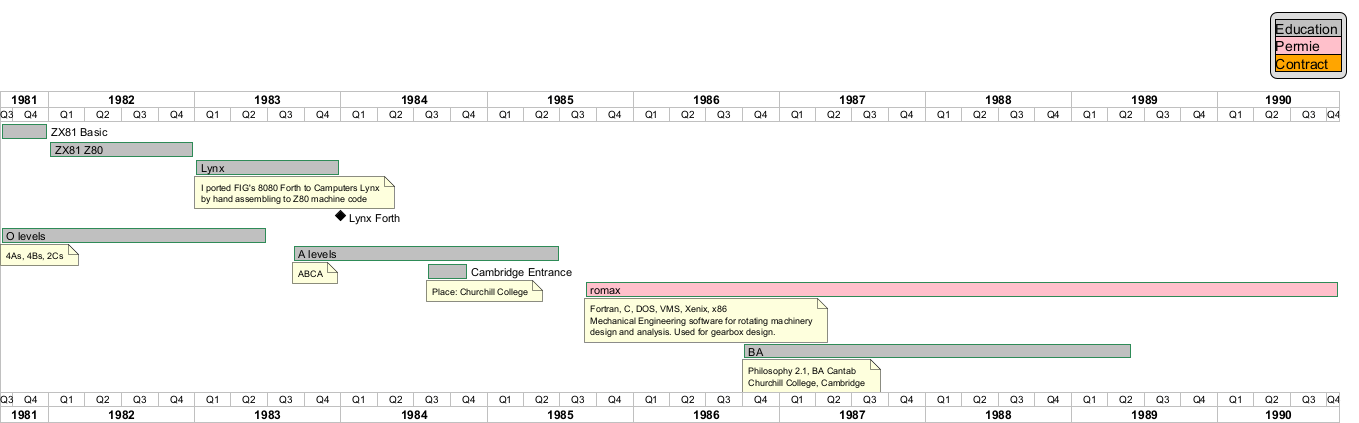
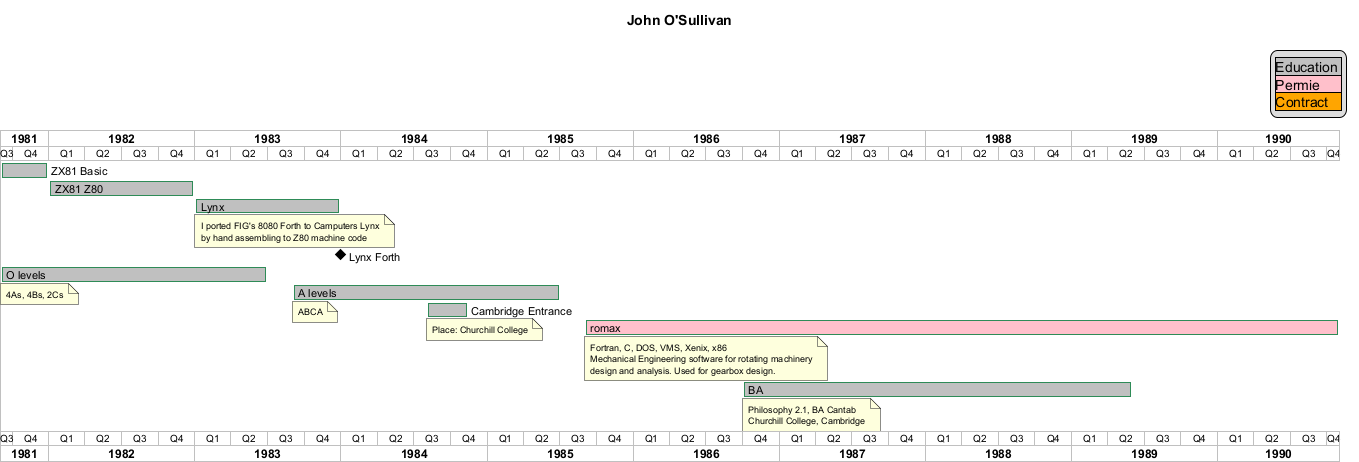
all pngs in <body> now

Changed region(s): [[0.0, 0.0307, 1.0, 1.0], [0.4636, 0.0307, 0.5563, 0.0615]]

diff --git a/index.html b/index.html
@@ -3,25 +3,21 @@
     <head>
         <meta charset="utf-8" />
         <meta name="description" content="osullivj JohnOS John O'Sullivan resume cv curriculum vitae C++ python" />
-        <title>osullivj cv</title>
+        <title>JohnOS CV</title>
         <style></style>
     </head>
     <body><table>
-      <thead>
-        <tr>
-          <th>John O'Sullivan</th>
-        </tr>
-      </thead>
+      <thead></thead>
       <tbody>
         <tr>
           <td>
             <map id="education_map" name="education_map">
-              <area shape="rect" id="id1" href="https://www.forth.org/fig-forth/fig-forth_8080_ver_11.pdf" title="FIG 8080 Forth" alt="" coords="335,210,345,220"/>
-              <area shape="rect" id="id2" href="https://github.com/osullivj/cvitae/wiki/ZX81" title="Sinclair ZX81" alt="" coords="2,124,46,138"/>
-              <area shape="rect" id="id3" href="https://www.theregister.com/on-prem/2013/03/20/the-lynx-effect-the-story-of-camputers-mighty-micro/267228" title="Camputers Lynx" alt="" coords="196,160,338,174"/>
-              <area shape="rect" id="id4" href="https://github.com/osullivj/cvitae/wiki/Z80" title="Z80" alt="" coords="50,142,192,156"/>
-              <area shape="rect" id="id5" href="https://www.chu.cam.ac.uk" title="Churchill College, Cambridge" alt="" coords="744,344,1130,357"/>
-              <area shape="rect" id="id6" href="https://pitchbook.com/profiles/company/56714-68#overview" title="Romax Tech" alt="" coords="586,282,1337,296"/>
+              <area shape="rect" id="id1" href="https://www.forth.org/fig-forth/fig-forth_8080_ver_11.pdf" title="FIG 8080 Forth" alt="" coords="335,249,345,259"/>
+              <area shape="rect" id="id2" href="https://github.com/osullivj/cvitae/wiki/ZX81" title="Sinclair ZX81" alt="" coords="2,163,46,177"/>
+              <area shape="rect" id="id3" href="https://github.com/osullivj/cvitae/wiki/Z80" title="Z80" alt="" coords="50,181,192,195"/>
+              <area shape="rect" id="id4" href="https://www.theregister.com/on-prem/2013/03/20/the-lynx-effect-the-story-of-camputers-mighty-micro/267228" title="Camputers Lynx" alt="" coords="196,199,338,212"/>
+              <area shape="rect" id="id5" href="https://www.chu.cam.ac.uk" title="Churchill College, Cambridge" alt="" coords="744,382,1130,396"/>
+              <area shape="rect" id="id6" href="https://pitchbook.com/profiles/company/56714-68#overview" title="Romax Tech" alt="" coords="586,320,1337,334"/>
             </map>
             <img src="education.png" usemap="#education_map">
           </td>
